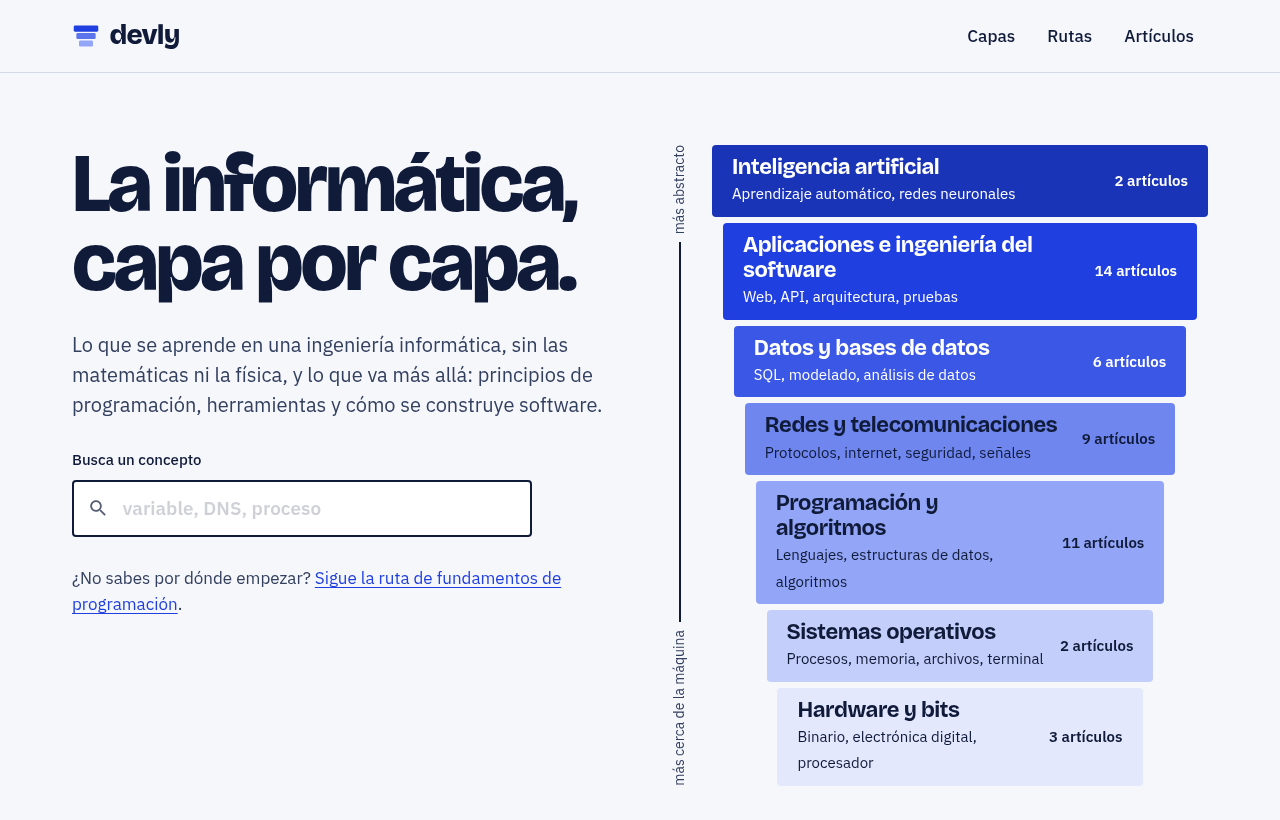
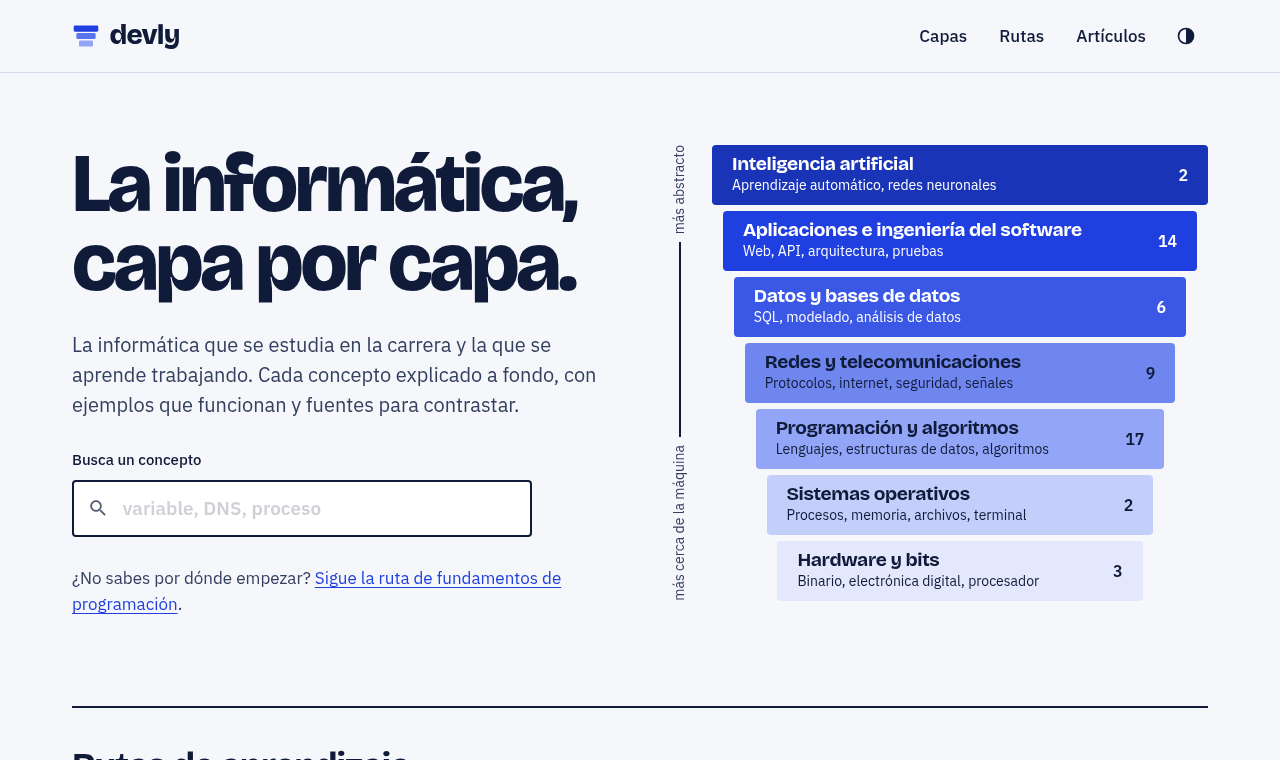
feat: add a theme toggle, compact layers and random articles on home
Adds a header button that overrides the system colour scheme and
remembers the choice. Layers become single compact rows with a
numeric count so the stack fits the viewport. The home list now
shows six random articles per visit instead of a misleading
latest list. Rewrites the landing lead and documents curiosity
articles.

diff --git a/src/styles/global.css b/src/styles/global.css
@@ -53,8 +53,12 @@
 	--font-code: "IBM Plex Mono", ui-monospace, monospace;
 }
 
+/*
+ * Dark tokens apply when the system asks for them, unless the visitor chose
+ * light, and whenever the visitor chose dark. Keep both blocks identical.
+ */
 @media (prefers-color-scheme: dark) {
-	:root {
+	:root:not([data-theme="light"]) {
 		--bg: #0c1430;
 		--surface: #131d40;
 		--ink: #eef1fc;
@@ -87,6 +91,46 @@
 		--mark-2: #93a5f6;
 		--mark-3: #5b74ec;
 	}
+}
+
+:root[data-theme="dark"] {
+	color-scheme: dark;
+
+	--bg: #0c1430;
+	--surface: #131d40;
+	--ink: #eef1fc;
+	--muted: #b4bedd;
+	--rule: #2a3663;
+	--accent: #9fb0f8;
+	--accent-solid: #3a57e6;
+	--code-bg: #131d40;
+	--code-inline: #1d2a5c;
+	--ok: #6fd9a0;
+	--bad: #ff9b85;
+	--quiet: #1a2550;
+
+	--layer-1: #e8ecfe;
+	--layer-2: #cbd4fb;
+	--layer-3: #aebbf8;
+	--layer-4: #8fa0f4;
+	--layer-5: #6f86ef;
+	--layer-6: #3a57e6;
+	--layer-7: #253a9e;
+	--on-layer-1: #101b3a;
+	--on-layer-2: #101b3a;
+	--on-layer-3: #101b3a;
+	--on-layer-4: #101b3a;
+	--on-layer-5: #101b3a;
+	--on-layer-6: #ffffff;
+	--on-layer-7: #ffffff;
+
+	--mark-1: #e3e8fd;
+	--mark-2: #93a5f6;
+	--mark-3: #5b74ec;
+}
+
+:root[data-theme="light"] {
+	color-scheme: light;
 }
 
 *,
@@ -166,6 +210,15 @@ a:hover {
 	color: var(--accent);
 }
 
+.visually-hidden {
+	position: absolute;
+	width: 1px;
+	height: 1px;
+	overflow: hidden;
+	clip-path: inset(50%);
+	white-space: nowrap;
+}
+
 .skip-link {
 	position: absolute;
 	left: var(--gutter);
@@ -231,6 +284,35 @@ a:hover {
 	display: flex;
 	flex-wrap: wrap;
 	gap: 0.25rem;
+}
+
+.site-tools {
+	display: flex;
+	flex-wrap: wrap;
+	align-items: center;
+	gap: 0.25rem;
+}
+
+.theme-toggle {
+	display: inline-grid;
+	place-items: center;
+	width: 2.75rem;
+	height: 2.75rem;
+	padding: 0;
+	color: var(--ink);
+	background: none;
+	border: 0;
+	border-radius: var(--radius);
+	cursor: pointer;
+}
+
+.theme-toggle:hover {
+	background: var(--quiet);
+}
+
+.theme-toggle svg {
+	width: 1.25rem;
+	height: 1.25rem;
 }
 
 .site-nav a {
@@ -410,8 +492,8 @@ a:hover {
 }
 
 .layer {
-	min-height: 4.25rem;
-	padding: 0.625rem 1.25rem;
+	min-height: 3.75rem;
+	padding: 0.5rem 1.25rem;
 	display: flex;
 	align-items: center;
 	justify-content: space-between;
@@ -436,15 +518,27 @@ a:hover {
 	display: block;
 	font-family: var(--font-display);
 	font-weight: 700;
-	font-size: clamp(1.0625rem, 2vw, 1.375rem);
+	font-size: clamp(1rem, 1.5vw, 1.25rem);
 	letter-spacing: -0.02em;
 	line-height: 1.15;
-	overflow-wrap: anywhere;
 }
 
-.layer-description,
+.layer-name,
+.layer-description {
+	overflow: hidden;
+	white-space: nowrap;
+	text-overflow: ellipsis;
+}
+
+.layer-description {
+	display: block;
+	font-size: 0.875rem;
+}
+
 .layer-count {
-	font-size: 0.9375rem;
+	font-size: 1rem;
+	font-weight: 600;
+	font-variant-numeric: tabular-nums;
 }
 
 .layer > span:first-child {
@@ -454,10 +548,6 @@ a:hover {
 .layer-count {
 	flex: none;
 	white-space: nowrap;
-}
-
-.layer-count[data-has-articles] {
-	font-weight: 600;
 }
 
 .stack-compact .layer {
@@ -684,6 +774,11 @@ a:hover {
 
 [data-filter-section] {
 	scroll-margin-top: 1rem;
+}
+
+/* Without JavaScript the first six stay; with it, six random ones are kept. */
+.random-articles:not([data-ready]) li:nth-child(n + 7) {
+	display: none;
 }
 
 .empty {
@@ -957,13 +1052,17 @@ a:hover {
 	}
 
 	.layer {
-		min-height: 3.5rem;
-		padding: 0.625rem 0.875rem;
+		min-height: 3.25rem;
+		padding: 0.5rem 0.875rem;
 		gap: 0.625rem;
 	}
 
 	.layer-description {
 		display: none;
+	}
+
+	.layer-name {
+		white-space: normal;
 	}
 
 	.stack-layers li {

diff --git a/docs/architecture.md b/docs/architecture.md
@@ -10,7 +10,7 @@ devly is a static content site covering what a computing degree teaches (compute
 | Content | MDX and YAML content collections | Schemas in `src/content.config.ts` |
 | Interactivity | React 19 islands | Hydrated per component with `client:*` |
 | Search | Pagefind | Index built from `dist/` after `astro build` |
-| Styling | One global stylesheet with CSS custom properties | Light and dark themes follow `prefers-color-scheme` |
+| Styling | One global stylesheet with CSS custom properties | Light and dark themes follow `prefers-color-scheme`; a header button overrides it through `data-theme` on the root element, stored in `localStorage` |
 | Fonts | Fontsource packages, self-hosted | Bricolage Grotesque, IBM Plex Sans, IBM Plex Mono |
 | Tooling | pnpm, TypeScript strict, Biome, Vitest, `astro check` | `pnpm check` runs all of them plus the build |
 | Hosting | Cloudflare Workers static assets | `wrangler.jsonc`; Cloudflare builds and deploys each push to `main` |
@@ -50,7 +50,7 @@ The visual direction is "layers of abstraction". Its rules:
 - Layer colour encodes depth: `--layer-1` to `--layer-7` are one cobalt hue ordered by lightness. Do not reorder them or introduce other hues for layers.
 - One accent (cobalt), one corner radius (`--radius`), no shadows.
 - Motion is limited to the layer stack building once on load and to direct feedback on press and hover. Both respect `prefers-reduced-motion`.
-- Every colour is a token with a light and a dark value. Add tokens rather than literal colours.
+- Every colour is a token with a light and a dark value. Add tokens rather than literal colours. Dark values are declared twice in `global.css` (system preference and explicit choice); change both.
 
 The design source is a Claude Design canvas kept outside the repository; `src/styles/global.css` is the source of truth for implemented values.
 

diff --git a/docs/content-guide.md b/docs/content-guide.md
@@ -77,6 +77,8 @@ Una comparación no repite la explicación completa de cada lado: enlaza a los a
 
 **Definición**: aclara un término concreto que no da para un artículo largo. Puede quedarse en 200 a 400 palabras: qué significa, un ejemplo, con qué no confundirlo y enlaces a los conceptos mayores de los que forma parte.
 
+**Curiosidad**: cuenta una historia o un dato llamativo que ayuda a entender o a recordar un concepto: de dónde viene la palabra "bug", por qué los índices empiezan en cero, qué fue el efecto 2000. Título libre, que despierte la pregunta. Las mismas reglas de fuentes se aplican con más motivo, porque las anécdotas de la informática circulan a menudo deformadas: si una historia no se puede respaldar con una fuente fiable, se cuenta como leyenda o no se cuenta. Enlaza siempre al artículo de concepto relacionado.
+
 ## Estructura de un artículo de concepto
 
 Estructura habitual, que se adapta al tema:

diff --git a/docs/plans/content-backlog.md b/docs/plans/content-backlog.md
@@ -75,6 +75,15 @@ Marca cada artículo al publicarlo. El orden dentro de cada bloque es el orden d
 - [ ] ¿Qué son los embeddings?
 - [ ] ¿Qué es el Model Context Protocol (MCP)?
 
+## Curiosidades
+
+Fuera de la cuenta de los 50, para intercalar:
+
+- [ ] ¿Por qué se llama "bug" a un error?
+- [ ] ¿Por qué los índices empiezan en cero?
+- [ ] El efecto 2000 y el problema del año 2038
+- [ ] ¿Por qué el teclado es QWERTY?
+
 ## Después de estos 50
 
 Materias del plan de estudios que seguirán sin artículo: arquitecturas en la nube, sistemas distribuidos más allá de CAP, desarrollo móvil, IoT, frameworks de front-end y back-end, blockchain, simulación, probabilidad, y los aspectos éticos y legales.

diff --git a/README.md b/README.md
@@ -6,8 +6,8 @@
 
 **La informática, capa por capa.**
 
-Lo que se aprende en una ingeniería informática, sin las matemáticas ni la física,<br>
-y lo que va más allá: principios de programación, herramientas y cómo se construye software.
+La informática que se estudia en la carrera y la que se aprende trabajando.<br>
+Cada concepto explicado a fondo, con ejemplos que funcionan y fuentes para contrastar.
 
 [**devly.nbfrodri.workers.dev**](https://devly.nbfrodri.workers.dev)
 
